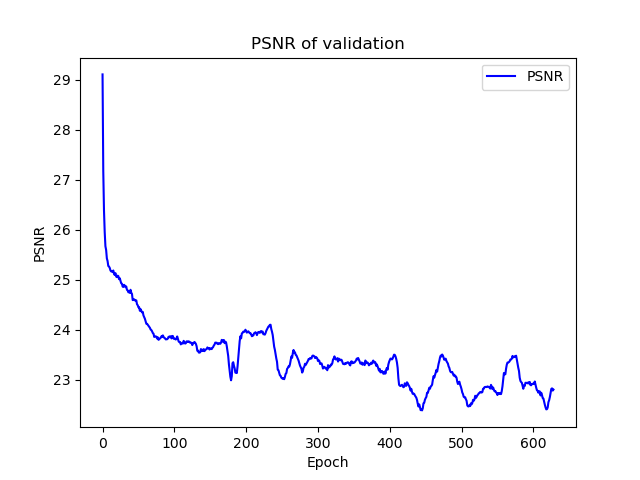
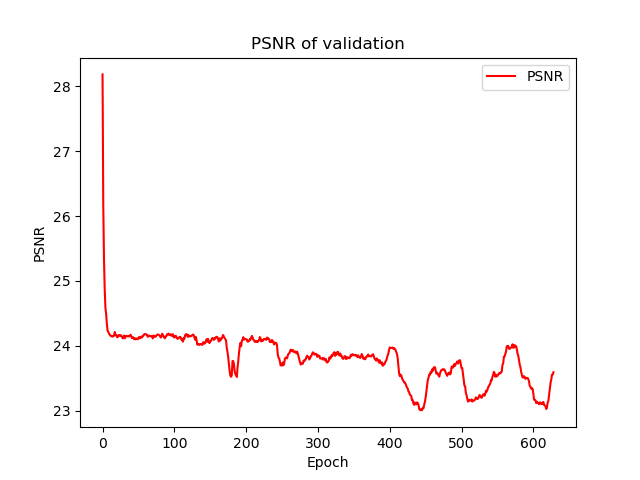
update

diff --git a/Lab4_Conditional_VAE_for_Video_Prediction/Trainer.py b/Lab4_Conditional_VAE_for_Video_Prediction/Trainer.py
@@ -119,24 +119,23 @@ class VAE_Model(nn.Module):
 
             train_loss = 0
 
-            for (img, label) in (pbar := tqdm(train_loader, ncols=120)):
+            for (img, label) in (pbar := tqdm(train_loader, ncols=180)):
                 img = img.to(self.args.device)
                 label = label.to(self.args.device)
                 loss = self.training_one_step(img, label, adapt_TeacherForcing)
 
-                train_loss += loss
+                train_loss += loss.item()
                 
                 beta = self.kl_annealing.get_beta()
                 if adapt_TeacherForcing:
-                    self.tqdm_bar('train [TeacherForcing: ON, {:.1f}], beta: {}'.format(self.tfr, beta), pbar, loss.detach().cpu(), lr=self.scheduler.get_last_lr()[0])
+                    self.tqdm_bar('train [TeacherForcing: ON, {:.1f}], beta: {:.4f}'.format(self.tfr, beta), pbar, loss.detach().cpu(), lr=self.scheduler.get_last_lr()[0])
                 else:
-                    self.tqdm_bar('train [TeacherForcing: OFF, {:.1f}], beta: {}'.format(self.tfr, beta), pbar, loss.detach().cpu(), lr=self.scheduler.get_last_lr()[0])
+                    self.tqdm_bar('train [TeacherForcing: OFF, {:.1f}], beta: {:.4f}'.format(self.tfr, beta), pbar, loss.detach().cpu(), lr=self.scheduler.get_last_lr()[0])
             
             if self.current_epoch % self.args.per_save == 0 and self.current_epoch != 0:
                 self.save(os.path.join(self.args.save_root, f"epoch={self.current_epoch}.ckpt"))
 
-            # self.train_loss_list.append(train_loss)
-            self.train_loss_list.append(train_loss / len(train_loader)) # 每16張為一組，共23410/16=1463組，每組的平均loss
+            self.train_loss_list.append(train_loss / len(train_loader)) # average loss per frame 
             self.eval()
             self.current_epoch += 1
             self.scheduler.step()
@@ -151,20 +150,13 @@ class VAE_Model(nn.Module):
     @torch.no_grad()
     def eval(self):
         val_loader = self.val_dataloader()
-        for (img, label) in (pbar := tqdm(val_loader, ncols=120)):
+        for (img, label) in (pbar := tqdm(val_loader, ncols=180)):
             img = img.to(self.args.device)
             label = label.to(self.args.device)
             loss = self.val_one_step(img, label)
             self.tqdm_bar('val', pbar, loss.detach().cpu(), lr=self.scheduler.get_last_lr()[0])
     
     def training_one_step(self, img, label, adapt_TeacherForcing):
-        self.frame_transformation.zero_grad() 
-        self.label_transformation.zero_grad() 
-        self.Gaussian_Predictor.zero_grad() 
-        self.Decoder_Fusion.zero_grad() 
-        self.Generator.zero_grad()
-
-        self.optim.zero_grad()
 
         img = img.permute(1, 0, 2, 3, 4) # change tensor into (seq, B, C, H, W)
         label = label.permute(1, 0, 2, 3, 4) # change tensor into (seq, B, C, H, W)
@@ -172,8 +164,6 @@ class VAE_Model(nn.Module):
         assert img.shape[0] == 16, "Training video seqence should be 16"
 
         decoded_frame_list = [img[0].cpu()]
-        # label_list = []
-
         out = img[0]
 
         mse = 0
@@ -203,14 +193,11 @@ class VAE_Model(nn.Module):
         loss = mse + kld * beta + epsilon
 
         # print(f"loss of 16 frames:{loss}")
+        self.optim.zero_grad()
         loss.backward()
-
         self.optimizer_step()
-
         torch.cuda.empty_cache()
-
-        return loss # 16張圖片(=一個train video)總共的loss
-        # return loss # / (self.train_vi_len-1) 
+        return loss / (self.train_vi_len-1) 
 
     def val_one_step(self, img, label):
         img = img.permute(1, 0, 2, 3, 4) # change tensor into (seq, B, C, H, W)
@@ -218,14 +205,10 @@ class VAE_Model(nn.Module):
         assert label.shape[0] == 630, "Validation pose seqence should be 630"
         assert img.shape[0] == 630, "Validation video seqence should be 630"
 
-
         decoded_frame_list = [img[0].cpu()] # X1
         label_list = []
         img_frame_list = []
 
-        # Normal normal
-        last_human_feat = self.frame_transformation(img[0]) # X1
-        first_templete = last_human_feat.clone() 
         out = img[0]
 
         mse = 0
@@ -261,16 +244,12 @@ class VAE_Model(nn.Module):
             self.make_gif(generated_frame[0], "./validation_frame/pred_seq.gif")
             self.make_gif(img_frame[0], "./validation_frame/pose.gif")
 
-            # print(len(generated_frame[0])) # 629
-            # print(len(img_frame[0])) # 629
-
             for i in range(629):
                 PSNR = Generate_PSNR(generated_frame[0][i], img_frame[0][i])
                 self.val_PSNR_list.append(PSNR.item())
-
-            # print(f'PSNR: {PSNR}')
-
-        return loss # / (self.val_vi_len-1)
+            
+        torch.cuda.empty_cache()
+        return loss / (self.val_vi_len-1)
                 
     def make_gif(self, images_list, img_name):
         new_list = []
@@ -352,16 +331,14 @@ class VAE_Model(nn.Module):
         plt.xlabel('Epoch')
         plt.ylabel('Loss')
 
-        self.train_loss_list = [t.detach().cpu().numpy() for t in self.train_loss_list]
+        # self.train_loss_list = [t.detach().cpu().numpy() for t in self.train_loss_list]
         loss_array = np.array(self.train_loss_list)
-        plt.plot(loss_array, label=f'loss({str(self.args.kl_anneal_type)})', color='b')
+        plt.plot(loss_array, label=f'average loss per frame', color='r')
 
         plt.legend()
-        # Save the figure to a file
         plt.savefig(f'{str(self.args.kl_anneal_type)}/loss_curve_{str(self.args.kl_anneal_type)}.png')
-        # Clear the plot for further use
         plt.clf()
-        # print(f'Min loss: {min_loss:.5f}')
+
 
     def plot_val_PSNR(self):
         plt.title(f'PSNR of validation')
@@ -370,7 +347,7 @@ class VAE_Model(nn.Module):
 
         # self.val_PSNR_list = [t.detach().cpu().numpy() for t in self.val_PSNR_list]
         PSNR_array = np.array(self.val_PSNR_list)
-        plt.plot(PSNR_array, label=f'PSNR', color='b')
+        plt.plot(PSNR_array, label=f'PSNR', color='r')
 
         plt.legend()
         plt.savefig(f'{str(self.args.kl_anneal_type)}/PSNR.png')
@@ -382,7 +359,7 @@ class VAE_Model(nn.Module):
         plt.ylabel('Teacher forcing ratio')
 
         tfr_array = np.array(self.tfr_list)
-        plt.plot(tfr_array, label=f'teacher forcing ratio', color='b')
+        plt.plot(tfr_array, label=f'teacher forcing ratio', color='r')
         plt.legend()
         plt.savefig(f'{str(self.args.kl_anneal_type)}/teacher_forcing_ratio.png')
         plt.clf()
@@ -410,8 +387,8 @@ if __name__ == '__main__':
     parser.add_argument('--store_visualization',      action='store_true', help="If you want to see the result while training")
     parser.add_argument('--DR',            type=str, required=True,  help="Your Dataset Path")
     parser.add_argument('--save_root',     type=str, required=True,  help="The path to save your data")
-    parser.add_argument('--num_workers',   type=int, default=4)
-    parser.add_argument('--num_epoch',     type=int, default=11,    help="number of total epoch")
+    parser.add_argument('--num_workers',   type=int, default=10)
+    parser.add_argument('--num_epoch',     type=int, default=6,    help="number of total epoch")
     parser.add_argument('--per_save',      type=int, default=5,      help="Save checkpoint every seted epoch")
     parser.add_argument('--partial',       type=float, default=1.0,  help="Part of the training dataset to be trained")
     parser.add_argument('--train_vi_len',  type=int, default=16,     help="Training video length")
